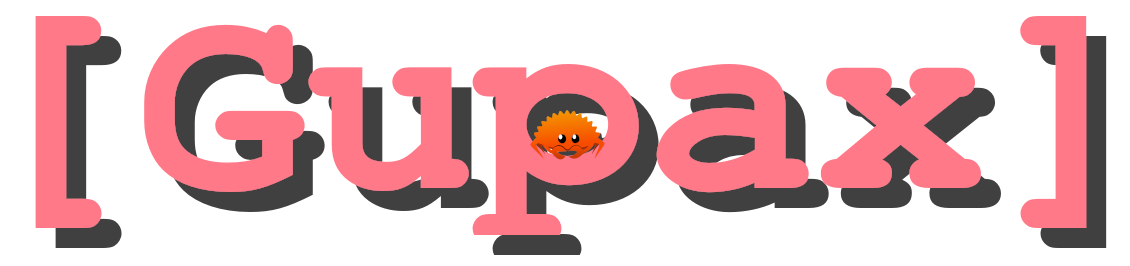
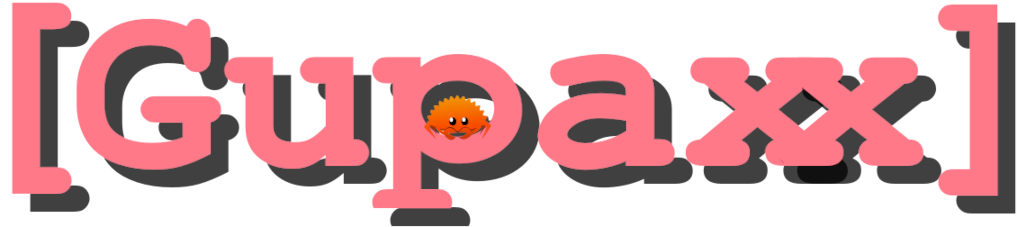
feat: beta release 0.1.4
feat: new logo
feat: algorithm now takes Xmrig HR timeframe depending on what's average available
fix: detection of p2pool eHR
fix: private round type stats
fix: name gupax tab to gupaxx

diff --git a/src/helper/xvb.rs b/src/helper/xvb.rs
@@ -5,6 +5,7 @@ use hyper::client::HttpConnector;
 use hyper::{Client, Request, StatusCode};
 use hyper_tls::HttpsConnector;
 use log::{debug, error, info, warn};
+use readable::num::Float;
 use readable::up::Uptime;
 use serde::Deserialize;
 use std::collections::VecDeque;
@@ -196,6 +197,7 @@ impl Helper {
         let mut last_algorithm = tokio::time::Instant::now();
         let mut last_request = tokio::time::Instant::now();
         let mut first_loop = true;
+        let mut second_loop = false;
         info!("XvB | Entering watchdog mode... woof!");
         loop {
             debug!("XvB Watchdog | ----------- Start of loop -----------");
@@ -326,11 +328,13 @@ impl Helper {
                         }
                     });
                     let share = lock!(gui_api_p2pool).sidechain_shares;
+                    debug!("XvB | Number of current shares: {}", share);
 
                     //     // verify in which round type we are
                     let round = XvbPrivStats::round_type(share, &pub_api);
                     // refresh the round we participate
-                    lock!(&pub_api).stats_priv.round_participate = round;
+                    debug!("XvB | Round type: {:#?}", round);
+                    lock!(&gui_api).stats_priv.round_participate = round;
 
                     // verify if we are the winner of the current round
                     if lock!(pub_api).stats_pub.winner
@@ -341,8 +345,10 @@ impl Helper {
 
                     // if 10 minutes passed since last check
                     // the first 15 minutes, the HR of xmrig will be 0.0, so xmrig will always mine on p2pool for 15m.
-                    if last_algorithm.elapsed() >= Duration::from_secs(XVB_TIME_ALGO.into())
-                        || first_loop
+                    // check local HR, skip this time if xmrig is not yet started
+                    if (last_algorithm.elapsed() >= Duration::from_secs(XVB_TIME_ALGO.into())
+                        || first_loop)
+                        && lock!(gui_api_xmrig).hashrate_raw > 0.0
                     {
                         debug!("Xvb Process | Algorithm is started");
                         output_console(
@@ -391,8 +397,16 @@ impl Helper {
                                 &gui_api,
                                 "At least one share is in current PPLNS window.",
                             );
+                            let hashrate_xmrig = if first_loop {
+                                // check rapidly average HR for first time
+                                lock!(gui_api_xmrig).hashrate_raw
+                            } else if second_loop {
+                                lock!(gui_api_xmrig).hashrate_raw_1m
+                            } else {
+                                lock!(gui_api_xmrig).hashrate_raw_15m
+                            };
                             let time_donated = XvbPrivStats::calcul_donated_time(
-                                &gui_api_xmrig,
+                                hashrate_xmrig,
                                 &gui_api_p2pool,
                                 &gui_api,
                                 &state_p2pool,
@@ -406,7 +420,7 @@ impl Helper {
                 XVB_TIME_ALGO - time_donated, time_donated
             ),
                             );
-                            let hashrate_xmrig = lock!(gui_api_xmrig).hashrate_raw_15m;
+
                             debug!("Xvb Process | Local HR is {}H/s ", hashrate_xmrig);
                             lock!(gui_api).p2pool_sent_last_hour_samples.pop_back();
                             lock!(gui_api).p2pool_sent_last_hour_samples.push_front(
@@ -454,6 +468,17 @@ impl Helper {
                             lock!(gui_api).p2pool_sent_last_hour_samples.push_front(0.0);
                             lock!(gui_api).p2pool_sent_last_hour_samples.pop_back();
                         }
+                        if second_loop {
+                            second_loop = false;
+                        }
+                        if first_loop {
+                            first_loop = false;
+                            second_loop = true;
+                        }
+                    } else {
+                        // if xmrig is still at 0 HR but is alive and algorithm is skipped, recheck first 10s of xmrig inside algorithm next time
+                        first_loop = true;
+                        second_loop = false;
                     }
                 }
             }
@@ -461,9 +486,6 @@ impl Helper {
             // Reset stats before loop
 
             // Sleep (only if 900ms hasn't passed)
-            if first_loop {
-                first_loop = false;
-            }
             let elapsed = start_loop.elapsed().as_millis();
             // Since logic goes off if less than 1000, casting should be safe
             if elapsed < 900 {
@@ -676,13 +698,12 @@ impl XvbPrivStats {
         }
     }
     fn calcul_donated_time(
-        gui_api_xmrig: &Arc<Mutex<PubXmrigApi>>,
+        lhr: f32,
         gui_api_p2pool: &Arc<Mutex<PubP2poolApi>>,
         gui_api_xvb: &Arc<Mutex<PubXvbApi>>,
         state_p2pool: &crate::disk::state::P2pool,
         state_xvb: &crate::disk::state::Xvb,
     ) -> u32 {
-        let lhr = lock!(gui_api_xmrig).hashrate_raw_15m;
         let p2pool_ehr = lock!(gui_api_p2pool).sidechain_ehr;
         // what if ehr stay still for the next ten minutes ? mHR will augment every ten minutes because it thinks that oHR is decreasing.
         //
@@ -699,17 +720,15 @@ impl XvbPrivStats {
             min_hr = 0.0;
         }
         debug!("Xvb Process | hr {}, min_hr: {} ", lhr, min_hr);
-        output_console(
-                                &gui_api_xvb,
-                                &format!("The average 15 minutes HR from Xmrig is {:.0} H/s, minimum required HR to keep a share in PPLNS window is {:.0} H/s, there was {} H/s estimated sent for your address on p2pool", lhr, min_hr, p2pool_ohr),
-                            );
+        let msg = format!("local HR from Xmrig is {} kH/s, minimum required HR to keep a share in PPLNS window is {} k/s, there was {} kH/s estimated sent for your address on p2pool",  Float::from_3(lhr.into()), Float::from_3(min_hr.into()), Float::from_3(p2pool_ehr.into()));
+        output_console(&gui_api_xvb, &msg);
         // calculate how much time can be spared
         let mut spared_time = Helper::time_that_could_be_spared(lhr, min_hr);
 
         if spared_time > 0 {
             // if not hero option
             if !state_xvb.hero {
-                let xvb_chr = lock!(gui_api_xvb).stats_priv.donor_1hr_avg;
+                let xvb_chr = lock!(gui_api_xvb).stats_priv.donor_1hr_avg * 1000.0;
                 let shr = Helper::calc_last_hour_avg_hash_rate(
                     &lock!(gui_api_xvb).xvb_sent_last_hour_samples,
                 );
@@ -923,8 +942,13 @@ impl PubXvbApi {
         if !buf.is_empty() {
             output.push_str(&buf);
         }
+        let round_participate = std::mem::take(&mut gui_api.stats_priv.round_participate);
         *gui_api = Self {
             output,
+            stats_priv: XvbPrivStats {
+                round_participate,
+                ..pub_api.stats_priv.clone()
+            },
             ..pub_api.clone()
         };
     }
@@ -1085,7 +1109,7 @@ mod test {
         lock!(gui_api_xmrig).hashrate_raw_15m = 5500.0;
         state_xvb.hero = false;
         let given_time = XvbPrivStats::calcul_donated_time(
-            &gui_api_xmrig,
+            lock!(gui_api_xmrig).hashrate_raw_15m,
             &gui_api_p2pool,
             &gui_api_xvb,
             &state_p2pool,
@@ -1107,7 +1131,7 @@ mod test {
         // verify that hero mode will give x seconds
         state_xvb.hero = true;
         let given_time = XvbPrivStats::calcul_donated_time(
-            &gui_api_xmrig,
+            lock!(gui_api_xmrig).hashrate_raw_15m,
             &gui_api_p2pool,
             &gui_api_xvb,
             &state_p2pool,
@@ -1128,7 +1152,7 @@ mod test {
         lock!(gui_api_xmrig).hashrate_raw_15m = 7000.0;
         state_xvb.hero = false;
         let given_time = XvbPrivStats::calcul_donated_time(
-            &gui_api_xmrig,
+            lock!(gui_api_xmrig).hashrate_raw_15m,
             &gui_api_p2pool,
             &gui_api_xvb,
             &state_p2pool,
@@ -1150,7 +1174,7 @@ mod test {
         // verify that hero mode will give x seconds
         state_xvb.hero = true;
         let given_time = XvbPrivStats::calcul_donated_time(
-            &gui_api_xmrig,
+            lock!(gui_api_xmrig).hashrate_raw_15m,
             &gui_api_p2pool,
             &gui_api_xvb,
             &state_p2pool,
@@ -1171,7 +1195,7 @@ mod test {
         lock!(gui_api_xmrig).hashrate_raw_15m = 18000.0;
         state_xvb.hero = false;
         let given_time = XvbPrivStats::calcul_donated_time(
-            &gui_api_xmrig,
+            lock!(gui_api_xmrig).hashrate_raw_15m,
             &gui_api_p2pool,
             &gui_api_xvb,
             &state_p2pool,
@@ -1193,7 +1217,7 @@ mod test {
         // verify that hero mode will give x seconds
         state_xvb.hero = true;
         let given_time = XvbPrivStats::calcul_donated_time(
-            &gui_api_xmrig,
+            lock!(gui_api_xmrig).hashrate_raw_15m,
             &gui_api_p2pool,
             &gui_api_xvb,
             &state_p2pool,
@@ -1214,7 +1238,7 @@ mod test {
         lock!(gui_api_xmrig).hashrate_raw_15m = 105000.0;
         state_xvb.hero = false;
         let given_time = XvbPrivStats::calcul_donated_time(
-            &gui_api_xmrig,
+            lock!(gui_api_xmrig).hashrate_raw_15m,
             &gui_api_p2pool,
             &gui_api_xvb,
             &state_p2pool,
@@ -1236,7 +1260,7 @@ mod test {
         // verify that hero mode will give x seconds
         state_xvb.hero = true;
         let given_time = XvbPrivStats::calcul_donated_time(
-            &gui_api_xmrig,
+            lock!(gui_api_xmrig).hashrate_raw_15m,
             &gui_api_p2pool,
             &gui_api_xvb,
             &state_p2pool,
@@ -1257,7 +1281,7 @@ mod test {
         lock!(gui_api_xmrig).hashrate_raw_15m = 1205000.0;
         state_xvb.hero = false;
         let given_time = XvbPrivStats::calcul_donated_time(
-            &gui_api_xmrig,
+            lock!(gui_api_xmrig).hashrate_raw_15m,
             &gui_api_p2pool,
             &gui_api_xvb,
             &state_p2pool,
@@ -1279,7 +1303,7 @@ mod test {
         // verify that hero mode will give x seconds
         state_xvb.hero = true;
         let given_time = XvbPrivStats::calcul_donated_time(
-            &gui_api_xmrig,
+            lock!(gui_api_xmrig).hashrate_raw_15m,
             &gui_api_p2pool,
             &gui_api_xvb,
             &state_p2pool,
@@ -1301,7 +1325,7 @@ mod test {
         lock!(gui_api_xvb).stats_priv.donor_1hr_avg = 5000.0;
         state_xvb.hero = false;
         let given_time = XvbPrivStats::calcul_donated_time(
-            &gui_api_xmrig,
+            lock!(gui_api_xmrig).hashrate_raw_15m,
             &gui_api_p2pool,
             &gui_api_xvb,
             &state_p2pool,
@@ -1326,7 +1350,7 @@ mod test {
         lock!(gui_api_xvb).stats_priv.donor_1hr_avg = 5000.0;
         state_xvb.hero = true;
         let given_time = XvbPrivStats::calcul_donated_time(
-            &gui_api_xmrig,
+            lock!(gui_api_xmrig).hashrate_raw_15m,
             &gui_api_p2pool,
             &gui_api_xvb,
             &state_p2pool,

diff --git a/src/helper/xmrig.rs b/src/helper/xmrig.rs
@@ -683,6 +683,7 @@ pub struct PubXmrigApi {
     pub accepted: String,
     pub rejected: String,
     pub hashrate_raw: f32,
+    pub hashrate_raw_1m: f32,
     pub hashrate_raw_15m: f32,
     pub node: String,
 }
@@ -705,6 +706,7 @@ impl PubXmrigApi {
             accepted: UNKNOWN_DATA.to_string(),
             rejected: UNKNOWN_DATA.to_string(),
             hashrate_raw: 0.0,
+            hashrate_raw_1m: 0.0,
             hashrate_raw_15m: 0.0,
             node: UNKNOWN_DATA.to_string(),
         }
@@ -766,6 +768,10 @@ impl PubXmrigApi {
             Some(Some(h)) => *h,
             _ => 0.0,
         };
+        let hashrate_raw_1m = match private.hashrate.total.iter().nth(1) {
+            Some(Some(h)) => *h,
+            _ => 0.0,
+        };
         let hashrate_raw_15m = match private.hashrate.total.last() {
             Some(Some(h)) => *h,
             _ => 0.0,
@@ -779,6 +785,7 @@ impl PubXmrigApi {
             accepted: Unsigned::from(private.connection.accepted as usize).to_string(),
             rejected: Unsigned::from(private.connection.rejected as usize).to_string(),
             hashrate_raw,
+            hashrate_raw_1m,
             hashrate_raw_15m,
             ..std::mem::take(&mut *public)
         }

diff --git a/src/helper/p2pool.rs b/src/helper/p2pool.rs
@@ -72,10 +72,10 @@ impl Helper {
                 if contains_yourhashrate(&line) {
                     if let Some(ehr) = estimated_hr(&line) {
                         debug!(
-                            "P2pool | PTY getting current estimated HR data from status: {} share",
+                            "P2pool | PTY getting current estimated HR data from status: {} KH/s",
                             ehr
                         );
-                        lock!(gui_api).sidechain_ehr = ehr;
+                        lock!(gui_api).sidechain_ehr = ehr * 1000.0;
                     } else {
                         error!("P2pool | PTY Getting data from status: Lines contains Your shares but no value found: {}", line);
                     }
@@ -895,6 +895,7 @@ impl PubP2poolApi {
             tick: std::mem::take(&mut gui_api.tick),
             tick_status: std::mem::take(&mut gui_api.tick_status),
             sidechain_shares: std::mem::take(&mut gui_api.sidechain_shares),
+            sidechain_ehr: std::mem::take(&mut gui_api.sidechain_ehr),
             ..pub_api.clone()
         };
     }

diff --git a/src/utils/regex.rs b/src/utils/regex.rs
@@ -150,7 +150,7 @@ pub fn nb_current_shares(s: &str) -> Option<u32> {
 }
 pub fn estimated_hr(s: &str) -> Option<f32> {
     static CURRENT_SHARE: Lazy<Regex> =
-        Lazy::new(|| Regex::new(r"Your hashrate (pool-side) = (?P<nb>.*) KH/s").unwrap());
+        Lazy::new(|| Regex::new(r"(?P<nb>[-+]?[0-9]*\.?[0-9]+([eE][-+]?[0-9]+)?)").unwrap());
     if let Some(c) = CURRENT_SHARE.captures(s) {
         if let Some(m) = c.name("nb") {
             return Some(
@@ -177,7 +177,7 @@ pub fn contains_yourshare(l: &str) -> bool {
 }
 pub fn contains_yourhashrate(l: &str) -> bool {
     static LINE_SHARE: Lazy<Regex> =
-        Lazy::new(|| Regex::new(r"^Your hashrate (pool-side)").unwrap());
+        Lazy::new(|| Regex::new(r"^Your hashrate \(pool-side\) = ").unwrap());
     LINE_SHARE.is_match(l)
 }
 pub fn contains_end_status(l: &str) -> bool {

diff --git a/src/app/panels/top.rs b/src/app/panels/top.rs
@@ -36,7 +36,7 @@ impl crate::app::App {
                 if ui
                     .add_sized(
                         [width, height],
-                        SelectableLabel::new(self.tab == Tab::Gupax, "Gupax"),
+                        SelectableLabel::new(self.tab == Tab::Gupax, "Gupaxx"),
                     )
                     .clicked()
                 {

diff --git a/CHANGELOG.md b/CHANGELOG.md
@@ -1,3 +1,20 @@
+# v0.1.4
+Fix release for beta version.
+This version is only made for testing purposes and have feedbacks.
+
+## Changes
+new logo
+algorithm wait for xmrig first value, takes 10s value at first start, 1m value at second start, 15m value at third start.
+
+## Fixes
+fix detection of p2pool eHR
+fix private round type stats
+fix name gupax tab to gupaxx
+
+## Bundled Versions
+* [`P2Pool v3.10`](https://github.com/SChernykh/p2pool/releases/tag/v3.10)
+* [`XMRig v6.21.1`](https://github.com/xmrig/xmrig/releases/tag/v6.21.1)
+
 # v0.1.3
 Fix release for beta version.
 This version is only made for testing purposes and have feedbacks.
